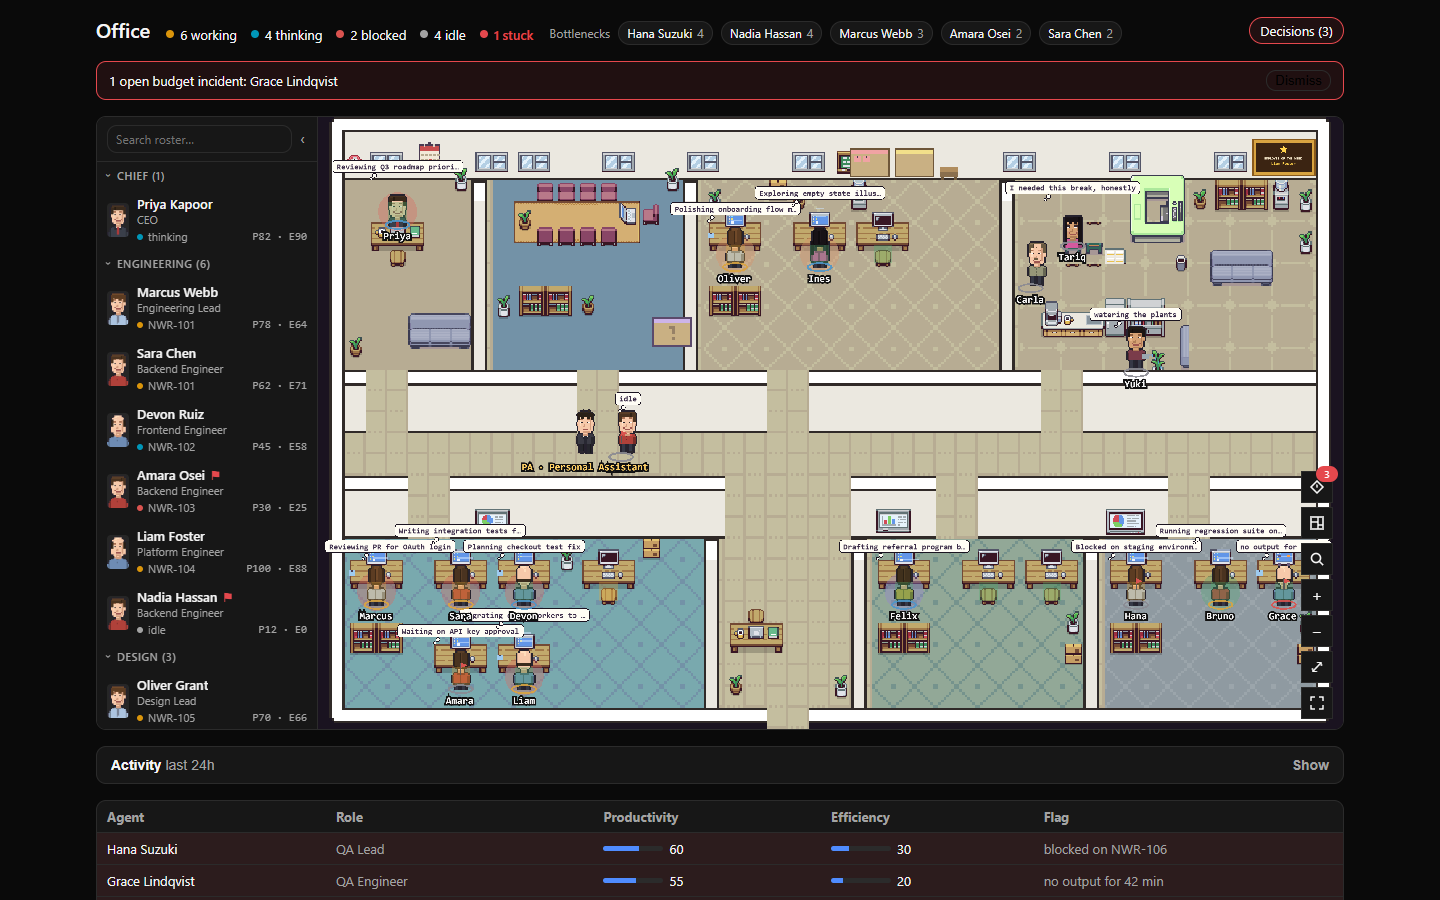
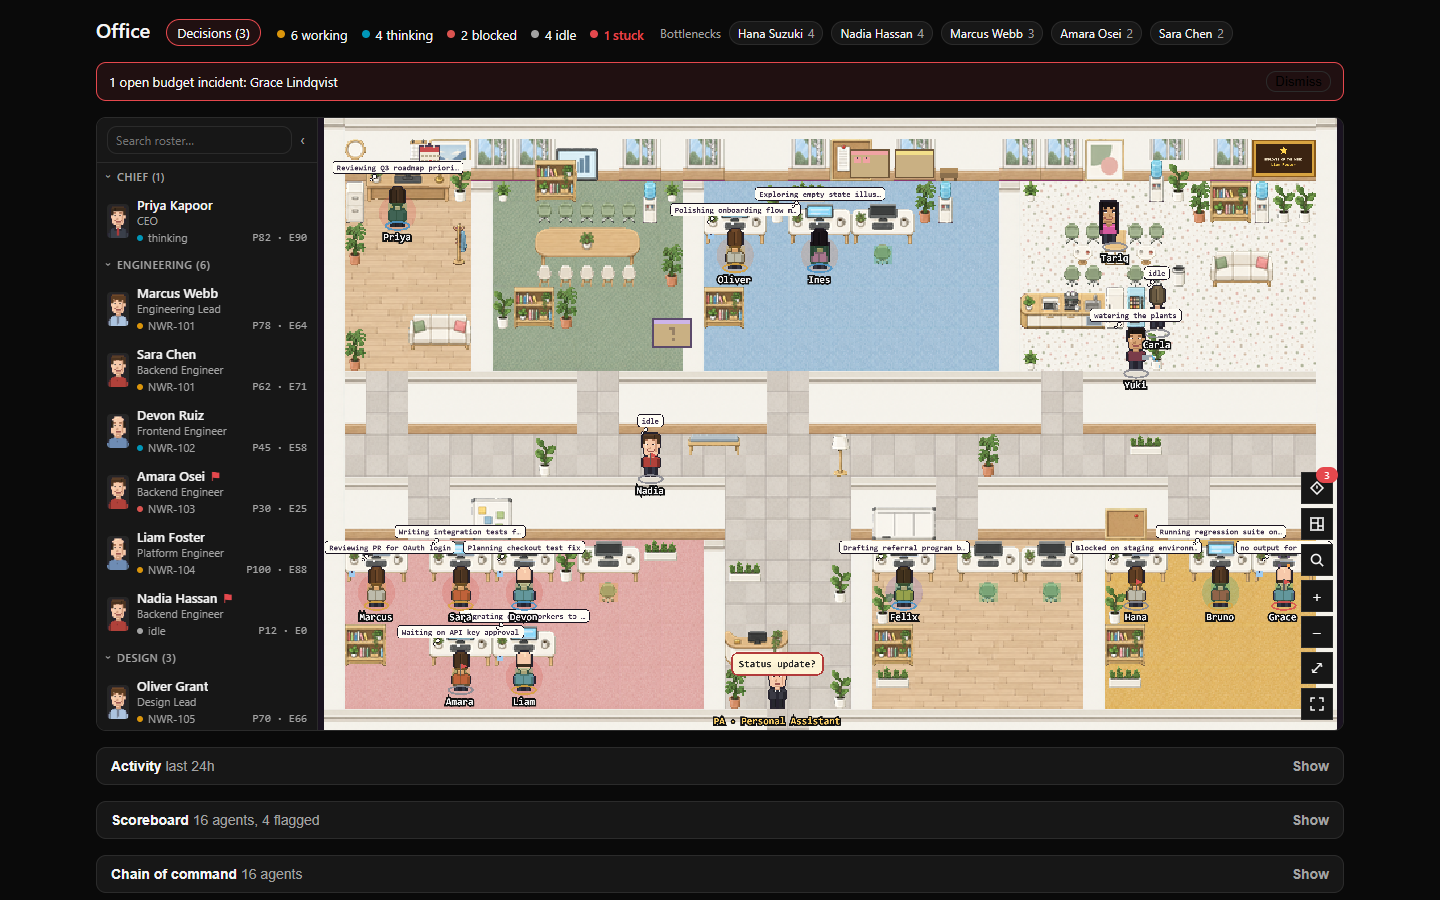
README: Scandi wood screenshots and art notes; drop Kenney from the catalogue and NOTICE

diff --git a/src/ui/agentLabels.ts b/src/ui/agentLabels.ts
@@ -60,6 +60,15 @@ function label(size: number, color: number, weight: "bold" | "normal" = "bold"):
 }
 
 const PLATE_MAX = 32;
+const SHORT_MAX = 14;
+const FILLER = new Set(["my", "the", "our", "a", "an"]);
+
+export function shortName(name: string): string {
+  const words = name.trim().split(/\s+/);
+  while (words.length > 1 && FILLER.has(words[0].toLowerCase())) words.shift();
+  const short = words.join(" ");
+  return short.length > SHORT_MAX ? `${short.slice(0, SHORT_MAX - 1).trimEnd()}…` : short;
+}
 
 export function plateText(name: string, role: string): string {
   const sameAsName = !role || name.toLowerCase().includes(role.toLowerCase()) || role.toLowerCase().includes(name.toLowerCase());
@@ -139,7 +148,7 @@ export function mountAgentLabels(world: Container): void {
       slot.name.visible = settings.nameplates;
       if (settings.nameplates) {
         const roleShort = String((a as { roleShort?: unknown }).roleShort ?? "");
-        const text = detail ? plateText(a.name, roleShort) : a.name.split(" ")[0];
+        const text = detail ? plateText(a.name, roleShort) : shortName(a.name);
         if (text !== slot.lastNameText) {
           slot.name.text = text;
           slot.lastNameText = text;

diff --git a/src/manifest.ts b/src/manifest.ts
@@ -23,6 +23,8 @@ const manifest: PaperclipPluginManifestV1 = {
     "issue.interactions.read",
     "issue.interactions.respond",
     "issues.create",
+    "issues.update",
+    "issues.wakeup",
     "plugin.state.read",
     "plugin.state.write",
     "database.namespace.migrate",
@@ -329,7 +331,7 @@ const manifest: PaperclipPluginManifestV1 = {
       paReports: {
         type: "boolean",
         title: "PA reports to Chief",
-        description: "Post a summary comment to the Chief after each PA check.",
+        description: "Each round, post a supervisor report to the Chief (decisions, flags, roll call, agent reports) and wake the Chief when a decision is needed.",
         default: DEFAULTS.paReports,
       },
       paIntervalMinutes: {

diff --git a/src/overrides/themeLoader.ts b/src/overrides/themeLoader.ts
@@ -1,4 +1,4 @@
-// Override of upstream themeLoader.ts: adds the org-chart "generated" (LimeZu) and "free" (Kenney) themes, delegates every other id upstream.
+// Override of upstream themeLoader.ts: adds the org-chart "generated" (LimeZu) and "free" (Scandi wood) themes, delegates every other id upstream.
 import { loadTheme as upstreamLoadTheme } from "../../vendor/munder-difflin/src/renderer/src/scene/office/themeLoader.js";
 import type { ThemeConfig, ThemeId } from "../../vendor/munder-difflin/src/renderer/src/scene/office/themeRegistry.js";
 import { getGeneratedDepartments, getGeneratedSpec } from "../layout/provider.js";

diff --git a/src/shared/art.ts b/src/shared/art.ts
@@ -3,7 +3,7 @@ declare const __LIMEZU__: boolean | undefined;
 /** False when the UI was built without assets/local (esbuild defines __LIMEZU__); tests and the worker assume true. */
 export const HAS_LIMEZU: boolean = typeof __LIMEZU__ === "undefined" ? true : __LIMEZU__;
 
-/** Themes drawn from LimeZu art fall back to the free Kenney theme when that art is missing. */
+/** Themes drawn from LimeZu art fall back to the Scandi wood theme when that art is missing. */
 export function availableTheme<T extends string>(theme: T, hasLimezu = HAS_LIMEZU): T | "free" {
   return hasLimezu ? theme : "free";
 }

diff --git a/src/layout/styles/scandi.ts b/src/layout/styles/scandi.ts
@@ -39,7 +39,7 @@ function room(w: number, rows: number, wallRows: number, place: (put: (n: Name, 
   return st;
 }
 
-// Room plans keep office.tmj's geometry (same cells as src/layout/kenney.ts), so seat, coffee and errand anchors hold.
+// Room plans keep office.tmj's geometry (the cells the anchor tests check), so seat, coffee and errand anchors hold.
 const ROOMS = {
   ceo: room(6, 7, 2, (put) => {
     put("clock", 0, 0, "none"); put("calendar", 3, 0, "none"); put("art_landscape", 4, 0, "none");

diff --git a/README.md b/README.md
@@ -12,12 +12,12 @@ Every agent sits at a desk and shows what it's doing right now. Work flies betwe
 [![React](https://img.shields.io/badge/React-19-61dafb?logo=react&logoColor=black)](package.json)
 [![PixiJS](https://img.shields.io/badge/PixiJS-8.5-e91e63)](https://pixijs.com)
 [![Tests: vitest](https://img.shields.io/badge/tests-vitest-6e9f18?logo=vitest&logoColor=white)](tests)
-[![Art: CC0](https://img.shields.io/badge/art-Kenney_CC0-lightgrey)](assets/catalogue.json)
+[![Art: Scandi wood](https://img.shields.io/badge/art-Scandi_wood-e9d2a8)](assets/catalogue.json)
 [![PRs welcome](https://img.shields.io/badge/PRs-welcome-brightgreen.svg)](CONTRIBUTING.md)
 
 ![The office floor for a fictional 16-agent company](docs/screenshots/office.png)
 
-<sub>All screenshots use a made-up company ("Northwind Robotics") from the built-in demo, drawn with LimeZu Modern Interiors art (bring your own copy; a free CC0 theme ships in the box). No real data.</sub>
+<sub>All screenshots use a made-up company ("Northwind Robotics") from the built-in demo, drawn in the Scandi wood theme that ships with the plugin. No real data.</sub>
 
 </div>
 
@@ -54,8 +54,8 @@ It works for any Paperclip company, whatever the size or domain. Everything come
 | **Floor plan from your org chart** | Departments become rooms, the Chief gets the corner office, and Leads sit at the head of their team. It's deterministic, so the same company always gets the same office. |
 | **Handoffs you can see** | When an issue is reassigned, a comment mentions someone, or a child issue is created, an envelope flies from one desk to the other. |
 | **Tool and thought bubbles** | The tool an agent is using and a short tail of its latest output float above its desk. |
-| **Layouts** | Four presets (departments, open plan, compact, campus) and a picker in the canvas. You can also ask an agent to design one. |
-| **Two art styles** | A free CC0 theme (Kenney) ships in the box. If you own LimeZu Modern Interiors, the build uses it for a richer look. |
+| **Layouts** | The Departments layout, generated from your org chart, with a picker in the canvas. You can also ask an agent to design one. |
+| **Art styles** | **Scandi wood** ships in the box: pale oak, white desks, pastel chairs and plants. If you own LimeZu Modern Interiors, the Mifflin style is offered too. |
 
 | **Dressed by role** | Each agent wears the outfit of its role: a suit for the Chief and the PA, shirt and tie for Leads, polos and casual wear for engineers and designers. You can tell who's who without reading a name. |
 | **Name plates, issue tags, state rings** | Every character has a ring in its state colour and a name plate. Zoomed out, the plate shows the first name. Zoomed in, it shows "Name · Role" (the role only when it differs from the name) and the issue the agent is on (e.g. `NWR-101 Add OAuth`). The floor shows who is doing what, not just who is moving. |
@@ -132,12 +132,12 @@ Paperclip Office runs on the office engine from [munder-difflin](https://github.
 |---|---|---|
 | Runs as | A desktop Electron app | A plugin inside Paperclip, in the browser |
 | Driven by | Hooks from local terminal sessions | Paperclip's agents, issues, runs, approvals and costs |
-| Floor plan | One fixed office map | Generated from your org chart, with four presets and agent-designed layouts |
+| Floor plan | One fixed office map | Generated from your org chart, plus agent-designed layouts |
 | Cast | Fixed characters | Your agents, dressed by role, with name plates and state rings |
 | Who's doing what | Animation and chatter | The exact issue, run state and stuck time for each agent |
 | Decisions | Not in scope | A Decision box with Accept and Reject that goes back to the agent |
 | Management | Not in scope | Productivity and efficiency scores, a PA that checks every desk and reports to the Chief, a scoreboard, a heatmap and cost and budget alerts |
-| Art | LimeZu (bought separately) | LimeZu if you own it, or a free CC0 theme that ships in the box |
+| Art | LimeZu (bought separately) | Scandi wood ships in the box; LimeZu (Mifflin) if you own it |
 
 ## Screenshots
 
@@ -168,7 +168,7 @@ Open your company in Paperclip and click **Office** in the sidebar.
 
 - After a code change, `npm run build` is enough. Paperclip reloads the worker and UI.
 - If you change `src/manifest.ts`, run `plugin uninstall paperclip-office --force` and install again.
-- `npm run build` tries to download the optional LimeZu art (see [Art](#art)). If the download fails, the build carries on with the free theme.
+- `npm run build` tries to download the optional LimeZu art (see [Art](#art)). If the download fails, the build carries on with Scandi wood.
 
 ## Try the demo
 
@@ -191,7 +191,6 @@ URL parameters open a view directly:
 | `?open=decisions` | the Decision box |
 | `?agent=eng-4` | one agent's monitor |
 | `?widget=1` | the dashboard widget on its own |
-| `?layout=campus` | a layout preset: `departments`, `open-plan`, `compact`, `campus` |
 
 ## Settings
 
@@ -199,7 +198,7 @@ Every setting is in **Settings → Plugins → Office**. The main ones:
 
 | Setting | What it does | Default |
 |---|---|---|
-| Theme / Layout preset | Art style and floor plan | Generated office (free art when LimeZu is missing), departments |
+| Theme | Art style | Mifflin when LimeZu is present, otherwise Scandi wood |
 | Stuck after (minutes) | When a quiet run counts as stuck | 10 |
 | Refresh interval (seconds) | How often the office polls | 4 |
 | Decision box / Decision issue scan | Turn the box on, and how many open issues to scan for decision cards | on / 40 |
@@ -238,7 +237,7 @@ Paperclip host ──SDK──▶ worker (src/worker.ts)
 
 ### Art
 
-- **Free theme (default, shipped):** [Kenney](https://kenney.nl) Roguelike Indoors, Roguelike/RPG, Game Icons and UI Pack, all CC0, in `assets/free/kenney/`.
+- **Scandi wood (default, shipped):** original art generated for this project from the prompts in [`docs/scandi-tileset-prompt.md`](docs/scandi-tileset-prompt.md), cut into tiles by `scripts/build-style-v2.py`. Sheets live in `assets/free/styles/scandi-wood/v2/`.
 - **LimeZu Modern Interiors (optional):** its licence forbids redistribution, so it is never committed. `npm run build` fetches it into the gitignored `assets/local/`, or you can drop your own copy there. The build must not be published with it.
 
 ## Contributing
@@ -256,5 +255,5 @@ Good first issues: a new layout preset, a translation, facing desk pods, a minim
 
 - Code: [Apache License 2.0](LICENSE), © 2026 Kshitij Mittal.
 - Office engine: [munder-difflin](https://github.com/chaitanyagiri/munder-difflin) by Chaitanya Giri, MIT. See [`NOTICE`](NOTICE) and `vendor/munder-difflin/LICENSE`.
-- Art: [Kenney](https://kenney.nl), CC0 1.0.
+- Art: Scandi wood, generated for this project; see `assets/catalogue.json`.
 - Built on the [Paperclip](https://github.com/paperclipai/paperclip) plugin SDK. A sibling of [paperclip-git-graph](https://github.com/Kshitijm7/paperclip-git-graph).
